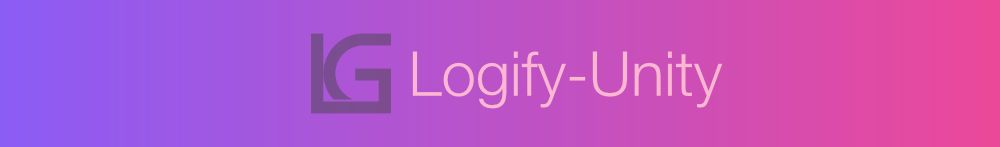
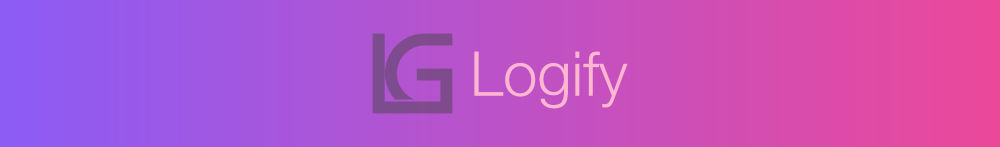
Rename plugin from Logify-Unity to Logify

Changed region(s): [[0.31, 0.2177, 0.744, 0.7891]]

diff --git a/website/docusaurus.config.ts b/website/docusaurus.config.ts
@@ -12,7 +12,7 @@ const lastUpdatedAt = new Date().toLocaleDateString('en-US', {
 const historyUrl = 'https://github.com/IShix-g/Logify-Unity-Docs/commits/main/';
 
 const config: Config = {
-  title: 'Logify-Unity',
+  title: 'Logify',
   tagline: 'Real-time in-game debug monitor for faster development.',
   favicon: 'img/favicon.ico',
 
@@ -77,7 +77,7 @@ const config: Config = {
           path: 'changelog',
           routeBasePath: 'changelog',
           blogTitle: 'Changelog',
-          blogDescription: 'Update history for Logify-Unity',
+          blogDescription: 'Update history for Logify',
           postsPerPage: 10,
           showReadingTime: false,
           blogSidebarTitle: 'Changelog',
@@ -120,7 +120,7 @@ const config: Config = {
       respectPrefersColorScheme: true,
     },
     navbar: {
-      title: 'Logify-Unity',
+      title: 'Logify',
       logo: {
         alt: 'Logify Logo',
         src: 'img/logo.svg',
@@ -186,7 +186,7 @@ const config: Config = {
     algolia: {
       appId: 'FNXGVHVVH7',
       apiKey: '6c150111371a604b65d7788039d747e6',
-      indexName: 'Logify-Unity Docs',
+      indexName: 'Logify Docs',
       contextualSearch: true,
     },
     prism: {
@@ -196,7 +196,7 @@ const config: Config = {
     },
     announcementBar: {
       id: 'v1_release_wait',
-      content: '🚀 Logify-Unity is coming soon. Stay tuned!',
+      content: '🚀 Logify is coming soon. Stay tuned!',
       backgroundColor: '#321F41',
       textColor: '#E6C8FF',
       isCloseable: false,

diff --git a/website/i18n/ja/docusaurus-plugin-content-docs/current/feedback/advanced/server-setup.md b/website/i18n/ja/docusaurus-plugin-content-docs/current/feedback/advanced/server-setup.md
@@ -16,7 +16,7 @@ sidebar_position: 1
 ## 🚀 サーバーのデプロイ
 
 ### 1. スクリプトの書き出し
-Unity エディタのメニューから `Window > Logify-Unity > Export Server Script` を選択し、PHP ファイル一式を任意の場所に出力します。
+Unity エディタのメニューから `Window > Logify > Export Server Script` を選択し、PHP ファイル一式を任意の場所に出力します。
 
 <img src={require('./img/setup1.jpg').default} width="550" className="margin-bottom--md" />
 
@@ -49,7 +49,7 @@ Unity エディタのメニューから `Window > Logify-Unity > Export Server S
 ## 🛠 Unity 側の設定
 
 ### 1. サービスの選択とURLの設定
-`Window > Logify-Unity > Settings` を開き、**Feedback Service** に `HTTP Feedback Service` を選択します。
+`Window > Logify > Settings` を開き、**Feedback Service** に `HTTP Feedback Service` を選択します。
 * **Server Url**: 先ほど控えた URL を入力します。
 
 <img src={require('./img/setup4.jpg').default} width="550" className="margin-bottom--md" />

diff --git a/website/i18n/ja/docusaurus-plugin-content-docs/current/custom/attributes.md b/website/i18n/ja/docusaurus-plugin-content-docs/current/custom/attributes.md
@@ -209,7 +209,7 @@ void UpdateLog(string text) { }
 
 Unityのビルド設定で **Managed Stripping Level** が **Medium** または **High** に設定されている場合、コード上で直接参照されていないメソッドやフィールドは、Unityによってビルドから削除（ストリップ）される可能性があります。
 
-`Logify-Unity` はリフレクションを使用して Attribute を検知するため、ストリッピングの対象になるとデバッグメニューに表示されません。この問題が発生した場合、Attribute を付与したメンバに **`[Preserve]`** 属性を併記してください。
+`Logify` はリフレクションを使用して Attribute を検知するため、ストリッピングの対象になるとデバッグメニューに表示されません。この問題が発生した場合、Attribute を付与したメンバに **`[Preserve]`** 属性を併記してください。
 
 ```csharp
 using UnityEngine.Scripting; // Preserve属性に必要

diff --git a/website/docs/feature-guide/overview.md b/website/docs/feature-guide/overview.md
@@ -11,11 +11,11 @@ import TabItem from '@theme/TabItem';
 
 # 🏁 Overview
 
-**Logify-Unity** is an advanced runtime debugging tool designed to eliminate the frustrations of on-device debugging in Unity mobile game development.
+**Logify** is an advanced runtime debugging tool designed to eliminate the frustrations of on-device debugging in Unity mobile game development.
 
 ### ✨ Key Features
 
-Logify-Unity integrates essential tools for on-device debugging, offering five core features:
+Logify integrates essential tools for on-device debugging, offering five core features:
 
 ### 📊 [Performance Stats](../features/stats.md)
 
@@ -112,4 +112,4 @@ Internally uses `[RuntimeInitializeOnLoadMethod]` to run persistently. No need t
 
 ---
 
-⭐ Loving Logify-Unity? Please consider leaving a review on the [Asset Store](https://assetstore.unity.com/packages/slug/360718)!
+⭐ Loving Logify? Please consider leaving a review on the [Asset Store](https://assetstore.unity.com/packages/slug/360718)!

diff --git a/website/docs/feedback/advanced/server-setup.md b/website/docs/feedback/advanced/server-setup.md
@@ -16,7 +16,7 @@ This configuration is recommended when distributing apps to unspecified users or
 ## 🚀 Server Deployment
 
 ### 1. Export Scripts
-Select `Window > Logify-Unity > Export Server Script` from Unity Editor menu and output the PHP file set to any location.
+Select `Window > Logify > Export Server Script` from Unity Editor menu and output the PHP file set to any location.
 
 <img src={require('./img/setup1.jpg').default} width="550" className="margin-bottom--md" />
 
@@ -49,7 +49,7 @@ For security, we recommend manually deleting `setup.php` from the server after c
 ## 🛠 Unity Setup
 
 ### 1. Select Service and Set URL
-Open `Window > Logify-Unity > Settings` and select `HTTP Feedback Service` for **Feedback Service**.
+Open `Window > Logify > Settings` and select `HTTP Feedback Service` for **Feedback Service**.
 * **Server Url**: Enter the URL you saved earlier.
 
 <img src={require('./img/setup4.jpg').default} width="550" className="margin-bottom--md" />

diff --git a/website/i18n/ja/docusaurus-plugin-content-docs/current/getting-started/quick-start.md b/website/i18n/ja/docusaurus-plugin-content-docs/current/getting-started/quick-start.md
@@ -16,7 +16,7 @@ sidebar_position: 2
 
 ### 2. 操作のカスタマイズ
 
-**設定：** `Window > Logify-Unity > Settings`
+**設定：** `Window > Logify > Settings`
 
 プロジェクトのUI配置に合わせて、起動条件は自由に変更可能です。
 
@@ -29,6 +29,6 @@ sidebar_position: 2
 
 :::tip 補足
 * **シーンを汚さない設計:** `[RuntimeInitializeOnLoadMethod]` を使用して自動生成されるため、既存のシーン構造に影響を与えません
-* **有効化/無効化の切り替え:** `Window > Logify-Unity > Settings` から切り替え可能です
+* **有効化/無効化の切り替え:** `Window > Logify > Settings` から切り替え可能です
 * **実機での動作:** iOS / Android の実機環境でも、同様の操作でダイアログを呼び出すことが可能です。
 :::

diff --git a/website/i18n/ja/docusaurus-plugin-content-docs/current/feedback/webhook-guides/slack.md b/website/i18n/ja/docusaurus-plugin-content-docs/current/feedback/webhook-guides/slack.md
@@ -98,10 +98,10 @@ Bot は招待されたチャンネルにのみ投稿できます。
 
 ## Unity 側の設定 {#unity-setup}
 
-取得した「トークン」と「チャンネルID」を Logify-Unity に組み込みます。
+取得した「トークン」と「チャンネルID」を Logify に組み込みます。
 
 ### 1. 設定を開く
-メニューバーの `Window > Logify-Unity > Settings` から設定ウィンドウを開きます。
+メニューバーの `Window > Logify > Settings` から設定ウィンドウを開きます。
 
 ### 2. サービスの選択
 **Feedback Integration** セクションの **Feedback Service** ドロップダウンから、`Slack Feedback Service` を選択します。その後、**Secret Generator** の **Open** ボタンをクリックして生成ツールを開きます。

diff --git a/website/docs/getting-started/quick-start.md b/website/docs/getting-started/quick-start.md
@@ -16,7 +16,7 @@ This plugin requires **no initial setup** after import. You can test functionali
 
 ### 2. Customizing Controls
 
-**Settings:** `Window > Logify-Unity > Settings`
+**Settings:** `Window > Logify > Settings`
 
 The activation conditions can be freely adjusted to match your project's UI layout.
 
@@ -29,6 +29,6 @@ The activation conditions can be freely adjusted to match your project's UI layo
 
 :::tip Notes
 * **Clean Scene Design:** Auto-generated using `[RuntimeInitializeOnLoadMethod]`, so it doesn't affect existing scene structure
-* **Enable/Disable Toggle:** Can be switched from `Window > Logify-Unity > Settings`
+* **Enable/Disable Toggle:** Can be switched from `Window > Logify > Settings`
 * **Device Operation:** Works the same way on iOS / Android devices with similar gestures.
 :::

diff --git a/website/i18n/ja/docusaurus-plugin-content-docs/current/feature-guide/overview.md b/website/i18n/ja/docusaurus-plugin-content-docs/current/feature-guide/overview.md
@@ -11,11 +11,11 @@ import TabItem from '@theme/TabItem';
 
 # 🏁 概要
 
-**Logify-Unity** は、Unityモバイルゲーム開発における「実機デバッグの煩わしさ」を解消するために設計された、高機能ランタイム・デバッグツールです。
+**Logify** は、Unityモバイルゲーム開発における「実機デバッグの煩わしさ」を解消するために設計された、高機能ランタイム・デバッグツールです。
 
 ### ✨ 主な機能
 
-Logify-Unityは、実機デバッグに必要なツールを統合した、以下の5つの主要機能を備えています。
+Logifyは、実機デバッグに必要なツールを統合した、以下の5つの主要機能を備えています。
 
 ### 📊 [Performance Stats](../features/stats.md)
 

diff --git a/website/i18n/ja/docusaurus-plugin-content-docs/current/feedback/webhook-guides/discord.md b/website/i18n/ja/docusaurus-plugin-content-docs/current/feedback/webhook-guides/discord.md
@@ -29,10 +29,10 @@ Discordの[Webhook 機能](https://support.discord.com/hc/en-us/articles/2283836
 
 ## Unity 側の設定 {#unity-setup}
 
-取得した Webhook URL を Logify-Unity に組み込みます。
+取得した Webhook URL を Logify に組み込みます。
 
 #### 1. 設定を開く
-メニューバーの `Window > Logify-Unity > Settings` から設定ウィンドウを開きます。
+メニューバーの `Window > Logify > Settings` から設定ウィンドウを開きます。
 
 #### 2. サービスの選択
 **Feedback Integration** セクションの **Feedback Service** ドロップダウンから、`Discord Feedback Service` を選択します。その後、**Secret Generator** の **Open** ボタンをクリックして生成ツールを開きます。

diff --git a/website/docs/custom/attributes.md b/website/docs/custom/attributes.md
@@ -209,7 +209,7 @@ void UpdateLog(string text) { }
 
 When Unity's build setting **Managed Stripping Level** is set to **Medium** or **High**, methods and fields not directly referenced in code may be removed (stripped) by Unity during builds.
 
-Since `Logify-Unity` uses reflection to detect Attributes, they won't appear in the debug menu if stripped. If this occurs, add the **`[Preserve]`** attribute alongside attributes on members.
+Since `Logify` uses reflection to detect Attributes, they won't appear in the debug menu if stripped. If this occurs, add the **`[Preserve]`** attribute alongside attributes on members.
 
 ```csharp
 using UnityEngine.Scripting; // Required for Preserve attribute
